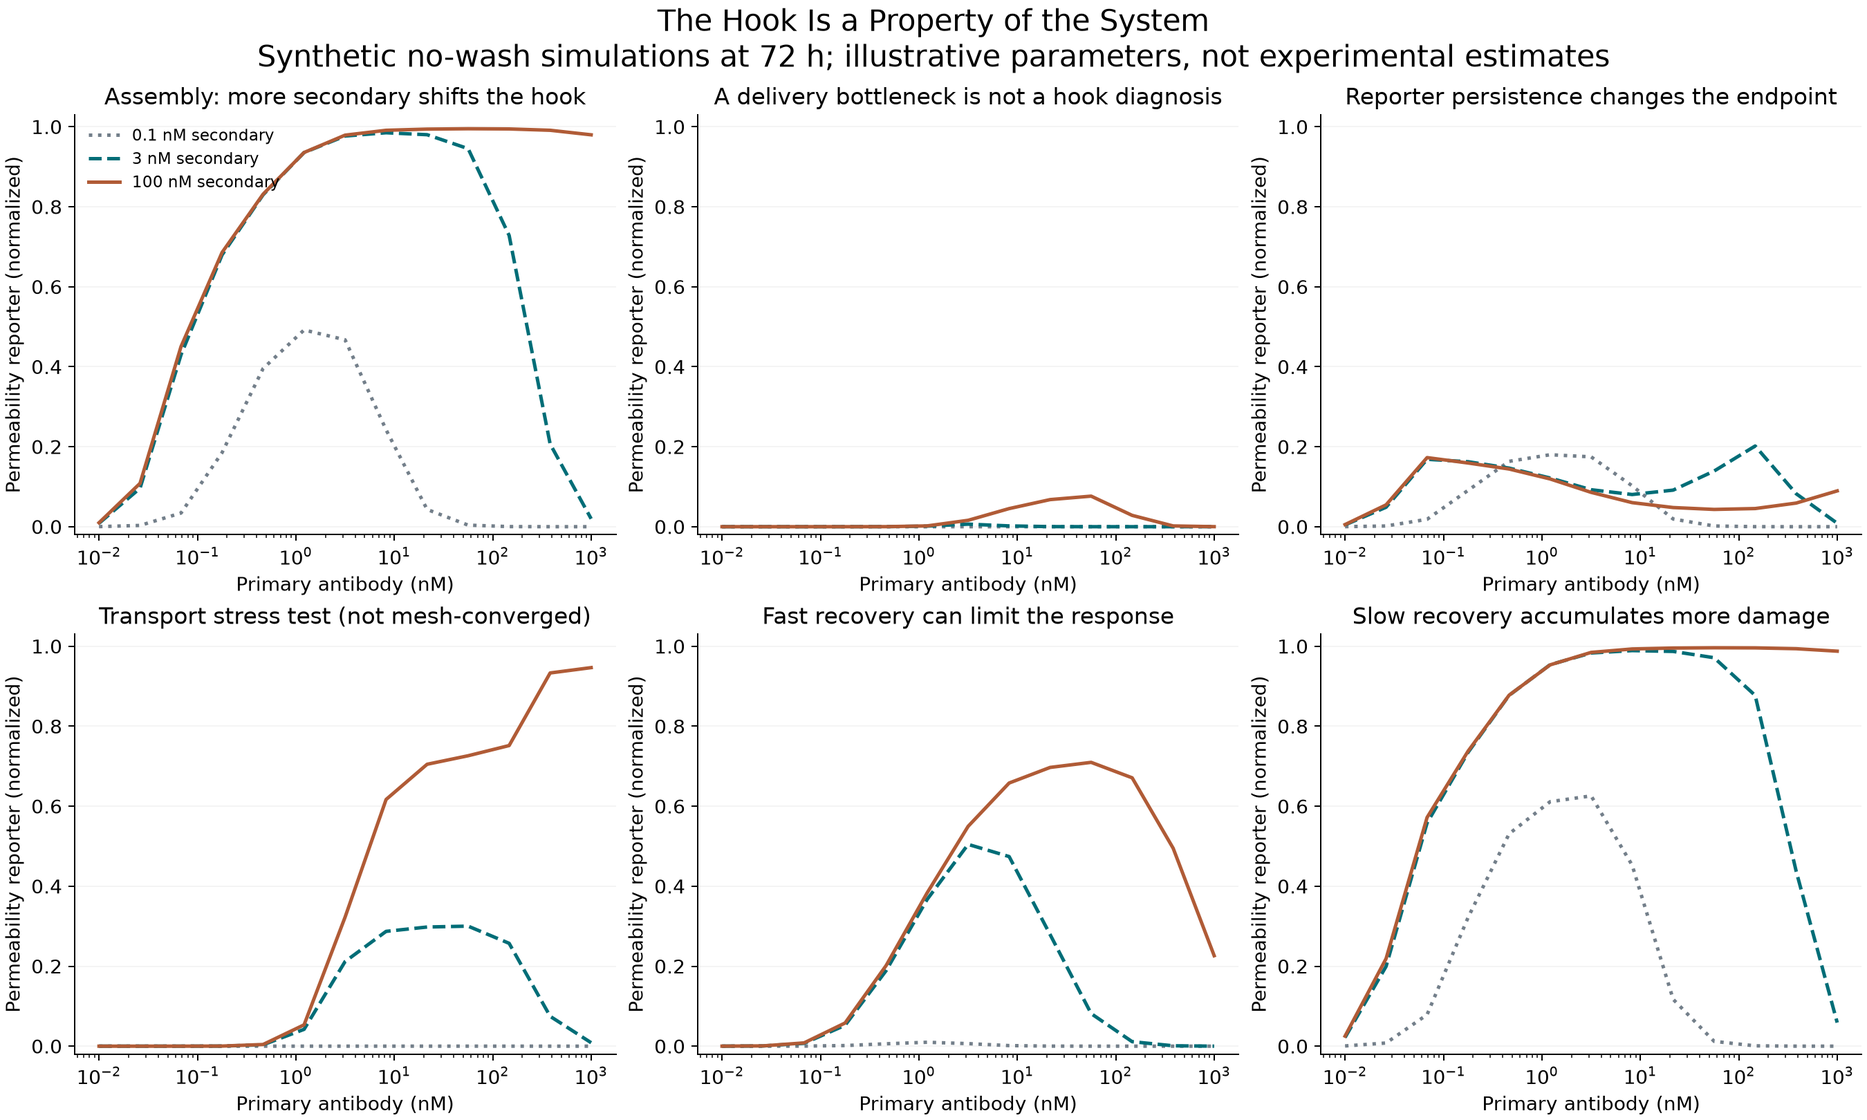
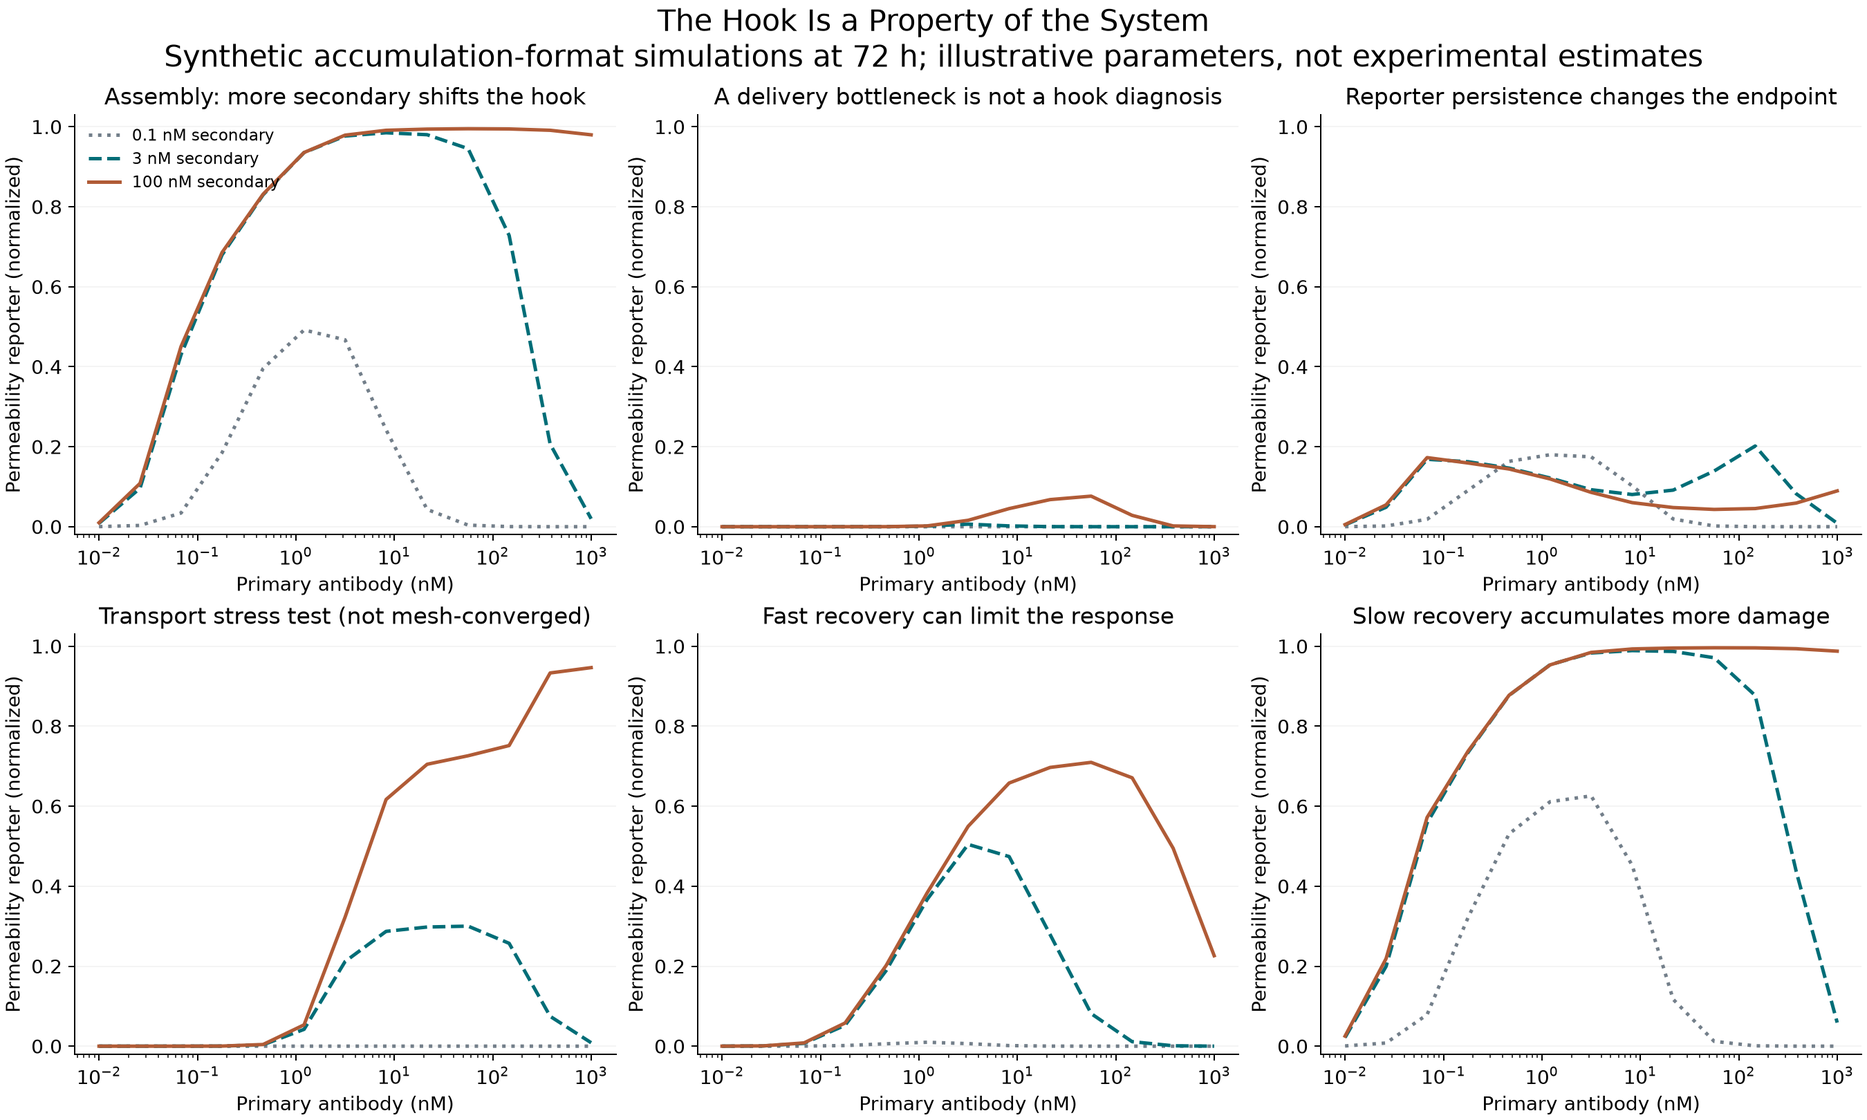
Frame accumulation assay problem and number series CCXXIV

Changed region(s): [[0.0933, 0.0309, 0.9022, 0.0617]]

diff --git a/article.html b/article.html
@@ -9,14 +9,15 @@
 <nav aria-label="Project links"><a href="index.html">Open explorer</a><a href="index.html#follow-one-simulation">Follow one simulation</a><a href="equations.html">Equations</a><a href="article.html">Article</a><button id="reader-theme">Light mode</button></nav></header>
 <main class="reader">
 <h1>The Hook Is a Property of the System</h1>
-<p>Data-Rich, Insight-Poor</p>
+<p>Data-Rich, Insight-Poor — CCXXIV</p>
 <p><img alt="Organoid Hook Model: dose-response curves and receptor-to-fluorescence trajectories in the public explorer." src="figures/cover-hook-system.png" /></p>
-<p>No-wash reference simulations at 72 hours. The curves and molecular inventories are model outputs, not experimental measurements.</p>
-<p>At 72 hours, two simulated antibody conditions produce normalized permeability signals of 0.985 and 0.980. On an endpoint plot, they look almost interchangeable. One has delivered 9,724 productive payload equivalents per initial cell; the other, 3,584. Almost the same fluorescence is compatible with approximately 63% less cumulative delivery.</p>
-<p>This discrepancy matters when a secondary-antibody–toxin assay develops a high-dose hook and increasing the secondary concentration appears to remove it. The improved curve could reflect more productive antibody assembly, a displacement of the hook beyond the tested concentrations, or enough additional exposure to drive an already nonlinear death response toward its ceiling. These explanations imply different things about the reagent. An endpoint that no longer declines cannot, by itself, distinguish them.</p>
-<p>The accompanying <a href="https://datarichinsightpoor.github.io/organoid-hook-model/">Organoid Hook Model</a> follows this problem from reagent binding through receptor trafficking, intracellular payload, recoverable damage, and membrane-integrity fluorescence. Its 5,304 simulations use illustrative parameters and are not fitted to experimental data. The literature supports individual mechanisms within that sequence; the closest direct no-wash hook studies concern secondary-labeled binding and internalization, rather than secondary-toxin killing in tumor organoids (<a href="https://pmc.ncbi.nlm.nih.gov/articles/PMC5842027/">Shembekar et al.</a>; <a href="https://pmc.ncbi.nlm.nih.gov/articles/PMC4708616/">Riedl et al.</a>). The model examines the consequences of joining those mechanisms, including the conditions under which a convincing endpoint becomes a poor guide to delivery.</p>
+<p>Accumulation-format reference simulations at 72 hours. The curves and molecular inventories are model outputs, not experimental measurements.</p>
+<p>A cytotoxicity curve assigns a single response to a sequence of events that need not remain proportional to one another. In the targeted mechanism considered here, receptor engagement, recruitment of a secondary-antibody–toxin conjugate, intracellular processing, and the cellular response to productive payload all contribute to the eventual readout. Each step can alter the relationship between the concentration added and the fluorescence recorded. A high-dose hook exposes the problem: increasing primary antibody produces a smaller endpoint response, potentially despite extensive receptor occupancy.</p>
+<p>Here, accumulation denotes an exposure format in which added reagents remain with the organoids throughout the incubation, without intervening reagent removal or medium replacement. Their free concentrations can nevertheless change as binding, transport, and uptake proceed; accumulation does not imply that every molecular inventory or signal increases continuously. The measured endpoint consequently reflects the history of a changing system. If increasing secondary removes the hook, the improved curve could reflect more productive assembly, displacement of the decline beyond the tested primary concentrations, or enough additional exposure to drive a nonlinear death response toward its ceiling. Establishing which of these occurred is the mechanistic problem.</p>
+<p>The distinction is substantial even in a deliberately simplified model. At 72 hours, two simulated antibody conditions produce normalized permeability signals of 0.985 and 0.980. On an endpoint plot, they look almost interchangeable. One has delivered 9,724 productive payload equivalents per initial cell; the other, 3,584. Almost the same fluorescence is compatible with approximately 63% less cumulative delivery.</p>
+<p>The accompanying <a href="https://datarichinsightpoor.github.io/organoid-hook-model/">Organoid Hook Model</a> follows this problem from reagent binding through receptor trafficking, intracellular payload, recoverable damage, and membrane-integrity fluorescence. Its 5,304 simulations use illustrative parameters and are not fitted to experimental data. The literature supports individual mechanisms within that sequence; the closest direct hook studies concern homogeneous secondary-labeled binding and internalization, rather than secondary-toxin killing in tumor organoids (<a href="https://pmc.ncbi.nlm.nih.gov/articles/PMC5842027/">Shembekar et al.</a>; <a href="https://pmc.ncbi.nlm.nih.gov/articles/PMC4708616/">Riedl et al.</a>). The model examines the consequences of joining those mechanisms, including the conditions under which a convincing endpoint becomes a poor guide to delivery.</p>
 <h2>Stoichiometry</h2>
-<p>In a no-wash format, free primary antibody remains available to bind the secondary conjugate in solution while receptor-bound primary recruits it at the cell surface. A homogeneous internalization assay developed by Riedl and colleagues showed a prozone effect at excess primary and discussed depletion of the secondary probe; its Fab secondary was chosen to avoid cross-linking effects (<a href="https://pmc.ncbi.nlm.nih.gov/articles/PMC4708616/">Riedl et al.</a>). Shembekar and colleagues reported a related hook in no-wash cell-binding fluorescence and considered increasing labeled secondary as a remedy, with a corresponding background cost (<a href="https://pmc.ncbi.nlm.nih.gov/articles/PMC5842027/">Shembekar et al.</a>). These observations make reagent partitioning a credible mechanism, although neither study establishes how a multivalent toxin conjugate behaves in a living organoid.</p>
+<p>In an accumulation format, free primary antibody remains available to bind the secondary conjugate in solution while receptor-bound primary recruits it at the cell surface. A homogeneous internalization assay developed by Riedl and colleagues showed a prozone effect at excess primary and discussed depletion of the secondary probe; its Fab secondary was chosen to avoid cross-linking effects (<a href="https://pmc.ncbi.nlm.nih.gov/articles/PMC4708616/">Riedl et al.</a>). Shembekar and colleagues reported a related hook in homogeneous cell-binding fluorescence and considered increasing labeled secondary as a remedy, with a corresponding background cost (<a href="https://pmc.ncbi.nlm.nih.gov/articles/PMC5842027/">Shembekar et al.</a>). These observations make reagent partitioning a credible mechanism, although neither study establishes how a multivalent toxin conjugate behaves in a living organoid.</p>
 <p>The simplest useful model allows primary antibody to bind receptor and secondary independently. It also allows a soluble primary–secondary complex to bind receptor. Excluding that last route would make solution-phase binding an irreversible waste of reagent and produce a convenient explanation by stipulation. Here, soluble complex remains competent to contribute to surface assembly; the hook emerges because finite secondary is distributed over an increasing primary population, while primary without secondary competes for the same receptors.</p>
 <p>The equilibrium limit makes that competition explicit. In a uniform compartment with effective 1:1:1 binding and negligible depletion of soluble ligands by receptor, the soluble primary–secondary complex, \(C_{\mathrm{eq}}\), determines the surface ternary complex, \(T_{\mathrm{eq}}\):</p>
 <p>\[
@@ -46,7 +47,7 @@ T_{\mathrm{eq}}\sim\frac{R_0S_0}{A_0}
 <p>The meaning of turnover also depends on which pool is turning over. The receptor parameter exposed in the atlas is the degradation half-time of retained endosomal receptor in the absence of recycling, rather than the measured half-life of the whole cellular receptor pool. Maintaining the same starting surface abundance while changing that rate requires a different synthesis flux. Comparisons described simply as “equal receptor expression” can therefore impose unequal replacement capacity within the model.</p>
 <p>Downstream recovery is represented separately as a generic reversible damage or protein-deficit state. In the reference case, sufficient damage persists to produce near-complete killing across a broad dose range. Shortening its recovery half-time from 24 to 2 hours leaves a substantial hook even at 100 nM secondary: the highest-primary fluorescence is approximately 0.226 against a sampled maximum of 0.710. Faster recovery does not create the upstream assembly deficit; it prevents that deficit from being hidden by accumulated killing. Conversely, when productive release is too poor to generate appreciable damage at any dose, a flat low curve provides no evidence that the assay has been rescued.</p>
 <p><img alt="Six simulated mechanism comparisons across secondary concentration, transport, productive release, recovery, and reporter persistence." src="figures/mechanism-map.png" /></p>
-<p>Figure 1. No-wash simulations at 72 hours. The transport stress case is not spatially converged and is included to expose sensitivity to tissue geometry, not to predict penetration quantitatively.</p>
+<p>Figure 1. Accumulation-format simulations at 72 hours. The transport stress case is not spatially converged and is included to expose sensitivity to tissue geometry, not to predict penetration quantitatively.</p>
 <h2>Spatial competition</h2>
 <p>Treating receptor copy number as a whole-well scalar misses a second consequence of binding. Ackerman and colleagues experimentally examined how antigen expression and turnover affect antibody penetration into tumor spheroids, showing why a strong peripheral binding sink can restrict access to deeper tissue (<a href="https://pmc.ncbi.nlm.nih.gov/articles/PMC2831054/">Ackerman et al.</a>). In that setting, increasing receptor abundance can favor local uptake while worsening its spatial distribution. The nominal bath concentration cannot specify both.</p>
 <p>The converse is important. Kopp and colleagues used affinity-modulated carrier antibodies to improve the distribution of an ADC surrogate in high-expression spheroids while limiting competition in low-expression cells, then examined the strategy in vivo with ADCs (<a href="https://pmc.ncbi.nlm.nih.gov/articles/PMC12964248/">Kopp et al.</a>). These are different reagents and experimental systems from an indirect secondary-toxin assay. Nevertheless, they provide an empirical counterweight to the assumption that receptor competition must always reduce useful delivery. Partial occupation of accessible binding sites can permit deeper penetration; its net effect depends on whether peripheral capture or insufficient cellular uptake was more limiting.</p>

diff --git a/equations.html b/equations.html
@@ -116,7 +116,7 @@ f_{3j}=k^+_AC_jR_j-k^-_AT_j.
 \dot S_b=-f_{0b}-\Phi_{Sn}/v_b,\quad
 \dot C_b=+f_{0b}-\Phi_{Cn}/v_b,
 \]</p>
-<p>with \(f_{0b}=k^+_SA_bS_b-k^-_SC_b\). No washing, medium replacement, or nonspecific extracellular conjugate clearance is applied.</p>
+<p>with \(f_{0b}=k^+_SA_bS_b-k^-_SC_b\). The accumulation format retains added reagents; no medium replacement, reagent removal, or nonspecific extracellular conjugate clearance is applied.</p>
 <h3>Surface receptor, endosomal recycling, and receptor turnover</h3>
 <p>Let \(k_R,k_B,k_T\) be internalization rates for unoccupied receptor, primary-bound receptor, and ternary complex; \(k_{\rm rec}\) the intact recycling rate; and \(k_{\rm deg}\) the common endosomal degradation rate. The endosomal species \(U,V,W\) correspond to internalized \(R,B,T\).</p>
 <p>\[
@@ -169,7 +169,7 @@ h_j=h_{\max}\frac{Q_j^m}{Q_{50}^m+Q_j^m},\qquad
 \dot H_j=E_j/\tau_m-k_HH_j.
 \]</p>
 <p>\(L\) is not yet irreversibly committed to death; \(E\) is committed but not yet membrane-permeable; \(D\) is permeabilized, reporter-accessible material; \(X\) is permeabilized material no longer visible to this reporter. \(H\) is a separate release-and-decay reporter proxy. \(L+E+D+X=1\); \(1-L\) is cumulative death commitment and \(D+X\) is cumulative membrane permeabilization.</p>
-<p>\(\tau_m\) is a mean waiting time for membrane permeabilization, not a half-life. Default \(k_F=0\): no-wash reporter-accessible material accumulates monotonically in time. Nonzero \(k_F\) represents optional loss of reportable material; no claim is made that a particular commercial dye has this behavior. Fluorescence saturation alone is monotone and cannot turn a monotone reporter population into a hook.</p>
+<p>\(\tau_m\) is a mean waiting time for membrane permeabilization, not a half-life. Default \(k_F=0\): retained reporter-accessible material accumulates monotonically in time. Nonzero \(k_F\) represents optional loss of reportable material; no claim is made that a particular commercial dye has this behavior. Fluorescence saturation alone is monotone and cannot turn a monotone reporter population into a hook.</p>
 <h3>Observation equations</h3>
 <p>Define initial-cell weights \(w_j=N_j/\sum N_j\), optical weights \(o_j\) linearly spaced from \(o_{\rm core}\) to 1, and \(\langle Z\rangle=\sum_jw_jZ_j\). For a one-shell model the optical weight is \(o_{\rm core}\).</p>
 <p>\[
@@ -557,4 +557,4 @@ H_{\rm hook}=\max\left(0,1-\frac{Y(A_{\max})}{\max_iY(A_i)}\right).
 <p>This model can reproduce a hook and a shift with secondary concentration. It cannot establish that either event in a real assay has the same cause. Secondary rescue can reflect altered assembly, availability, uptake, toxicity, or reporter behavior; several combinations can produce similar output curves.</p>
 <p>Finite effective 1:1:1 stoichiometry omits real secondary valency, cross-linking, avidity, aggregate-size distributions, and concentration-dependent trafficking. There is no nonspecific conjugate uptake, extracellular cleavage, free-payload killing, bystander transport, growth, changing organoid geometry, or cell-cycle dependence. The receptor/delivery subsystem remains active on a fixed initial-cell scaffold after death commitment; this is a serious late-time limitation, not a claim about dead-cell trafficking.</p>
 <p>The minimum identification strategy separates surface copies, unoccupied versus liganded internalization, recycling versus degradation, intracellular productive payload, direct cell-state change, and reporter response. Target-negative and secondary-only observations are particularly important because this version predicts exactly zero target-independent toxicity by construction. A mismatch requires extending the model, not changing the experimental result.</p>
-<p>The geometric and turnover mechanisms are motivated by <a href="https://pmc.ncbi.nlm.nih.gov/articles/PMC2831054/">published spheroid-penetration experiments</a>; the assembly mechanism has a direct no-wash precedent in <a href="https://pmc.ncbi.nlm.nih.gov/articles/PMC5842027/">cell-surface antibody detection</a> and <a href="https://pmc.ncbi.nlm.nih.gov/articles/PMC4708616/">homogeneous internalization assays</a>. These studies do not supply a calibrated parameter set for this simulator.</p></main><script>document.getElementById('reader-theme').onclick=function(){var d=document.documentElement.dataset.theme==='dark';document.documentElement.dataset.theme=d?'light':'dark';this.textContent=d?'Dark mode':'Light mode';};</script></body></html>
+<p>The geometric and turnover mechanisms are motivated by <a href="https://pmc.ncbi.nlm.nih.gov/articles/PMC2831054/">published spheroid-penetration experiments</a>; the assembly mechanism has a direct homogeneous-format precedent in <a href="https://pmc.ncbi.nlm.nih.gov/articles/PMC5842027/">cell-surface antibody detection</a> and <a href="https://pmc.ncbi.nlm.nih.gov/articles/PMC4708616/">homogeneous internalization assays</a>. These studies do not supply a calibrated parameter set for this simulator.</p></main><script>document.getElementById('reader-theme').onclick=function(){var d=document.documentElement.dataset.theme==='dark';document.documentElement.dataset.theme=d?'light':'dark';this.textContent=d?'Dark mode':'Light mode';};</script></body></html>

diff --git a/index.html b/index.html
@@ -3,7 +3,7 @@
 <head>
   <meta charset="utf-8">
   <meta name="viewport" content="width=device-width, initial-scale=1">
-  <meta name="description" content="A synthetic, no-wash secondary-conjugate assay atlas separating assembly, trafficking, transport, and readout.">
+  <meta name="description" content="A synthetic accumulation-format secondary-conjugate assay atlas separating assembly, trafficking, transport, and readout.">
   <title>Organoid Hook Model | Data-Rich, Insight-Poor</title>
   <link href="https://api.fontshare.com/v2/css?f[]=satoshi@400,500,700&display=swap" rel="stylesheet">
   <link rel="stylesheet" href="style.css">
@@ -34,7 +34,7 @@
     <label for="case">Isolated assumption</label><select id="case"></select>
     <p class="control-note" id="case-description"></p>
   </div>
-  <label for="order">Order of addition · no wash</label>
+  <label for="order">Order of addition · accumulation</label>
   <select id="order"><option value="simultaneous">Simultaneous</option><option value="primary_first">Primary first → secondary at 6 h</option><option value="secondary_first">Secondary first → primary at 6 h</option><option value="precomplexed">Precomplexed at equilibrium</option></select>
   <label for="time">Read time from first addition</label>
   <select id="time"><option value="0">24 h</option><option value="1">48 h</option><option value="2" selected>72 h</option></select>
@@ -76,7 +76,7 @@
     <div class="section-label">WORKED EXAMPLE · SAME PYTHON MODEL</div>
     <h2 id="trace-title">Follow one simulation</h2>
     <p class="trace-lede">Start with 100,000 surface receptors per cell. Follow assembly, productive delivery, damage, and the signal that becomes visible later.</p>
-    <p class="small muted">Fixed Reference biology · 150 µm radius · simultaneous addition · no wash. This section is independent of the explorer controls above. Every snapshot is computed, not interpolated.</p>
+    <p class="small muted">Fixed Reference biology · 150 µm radius · simultaneous addition · accumulation. This section is independent of the explorer controls above. Every snapshot is computed, not interpolated.</p>
     <div class="trace-controls">
       <div><label for="trace-case">Reagent condition</label><select id="trace-case" disabled>
         <option value="sampled_peak">Sampled peak · A 8.254 / S 3 nM</option>

diff --git a/worked-example.html b/worked-example.html
@@ -14,7 +14,7 @@ Equations render in your browser; if the math service is blocked, the complete T
 <p>A worked example from the Organoid Hook Model</p>
 <p>This is a numerical walkthrough of the published <a href="https://github.com/dataRichinsightPoor/organoid-hook-model/tree/v0.1.0">v0.1.0 implementation</a>, not an experimental result or a fit to a particular reagent. The biological parameters remain fixed while three dose conditions reveal the assembly hook and its downstream consequences. All molecule counts below are model-equivalent counts per initial cell, not measurements per surviving cell.</p>
 <h2>The chosen system</h2>
-<p>Use <strong>Mechanism lab → Reference</strong>, not the separate receptor-atlas default, in the <a href="https://datarichinsightpoor.github.io/organoid-hook-model/">public explorer</a>. Choose simultaneous addition, 72 hours, no wash, and permeability fluorescence; compare the 3 nM and 100 nM secondary curves.</p>
+<p>Use <strong>Mechanism lab → Reference</strong>, not the separate receptor-atlas default, in the <a href="https://datarichinsightpoor.github.io/organoid-hook-model/">public explorer</a>. Choose simultaneous addition, 72 hours, accumulation, and permeability fluorescence; compare the 3 nM and 100 nM secondary curves.</p>
 <p>The main trajectory uses 8.254 nM primary and 3 nM secondary. The primary dose is the highest-fluorescence point on the published 13-dose reference grid at 72 hours, not a continuously optimized peak and not the analytical equilibrium peak.</p>
 <table>
 <thead>

diff --git a/app.js b/app.js
@@ -67,7 +67,7 @@ function render(){
  const max=Math.max(...y.flat());
  const ymax=isCount?Math.max(1,max*1.08):1;
  $("count").textContent=`${(atlas.simulation_count+lab.simulation_count).toLocaleString()} synthetic simulations · 3 observation times`;
- $("context").textContent=`${mode==="atlas"?"Receptor atlas":activeData.cases[$("case").value].name} · ${activeData.times_h[ti]} h from first addition · no wash`;
+ $("context").textContent=`${mode==="atlas"?"Receptor atlas":activeData.cases[$("case").value].name} · ${activeData.times_h[ti]} h from first addition · accumulation`;
  $("case-description").textContent=descriptions[$("case").value]||"";
  $("plot-title").textContent=labels[field];
  $("y-description").textContent=isCount?"Model-equivalent copies per initial cell; not experimental molecule counts.":field==="permeability_fluorescence"?"Normalized to a modeled, fully permeabilized initial population.":"Normalized model state or generic reporter signal; not a calibrated commercial assay.";
